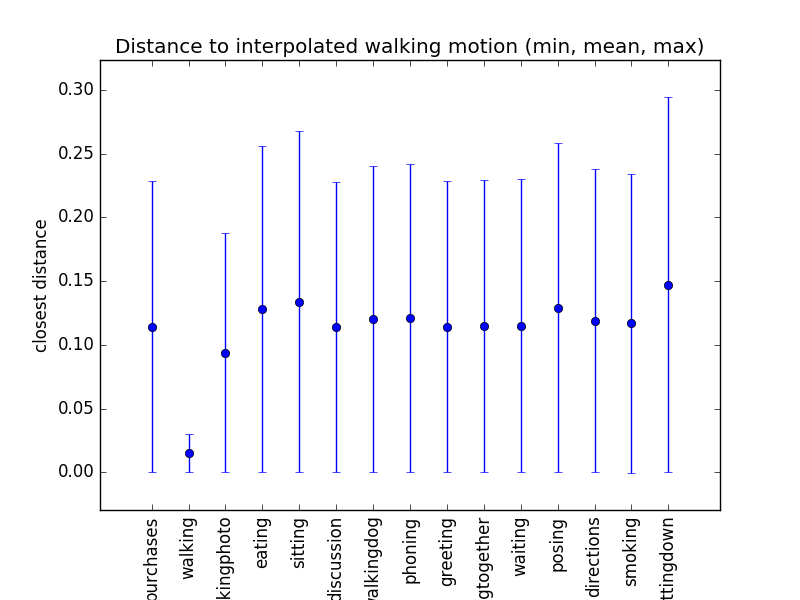
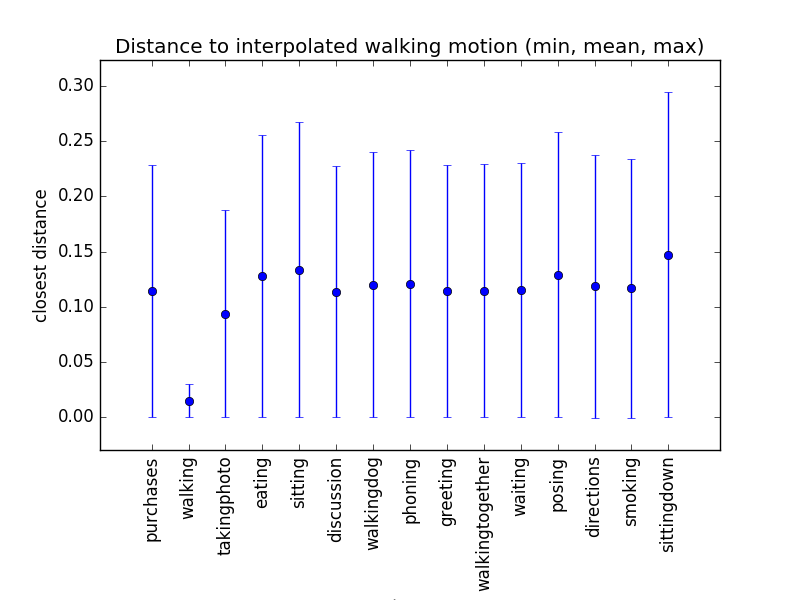
fix

diff --git a/RNN/utils/association_evaluation.py b/RNN/utils/association_evaluation.py
@@ -269,7 +269,7 @@ def plot_results(directory, model_name, action_type):
 		plt.xlabel('category')
 		plt.ylabel('closest distance')
 		plt.margins(0.1)
-		plt.subplots_adjust(bottom=0.15)
+		plt.subplots_adjust(bottom=0.25)
 		plt.title('Distance to interpolated %s motion (min, mean, max)'%action_type)
 		plt.savefig(directory+'eval_generation-'+model_name+'.png')
 		plt.close()
